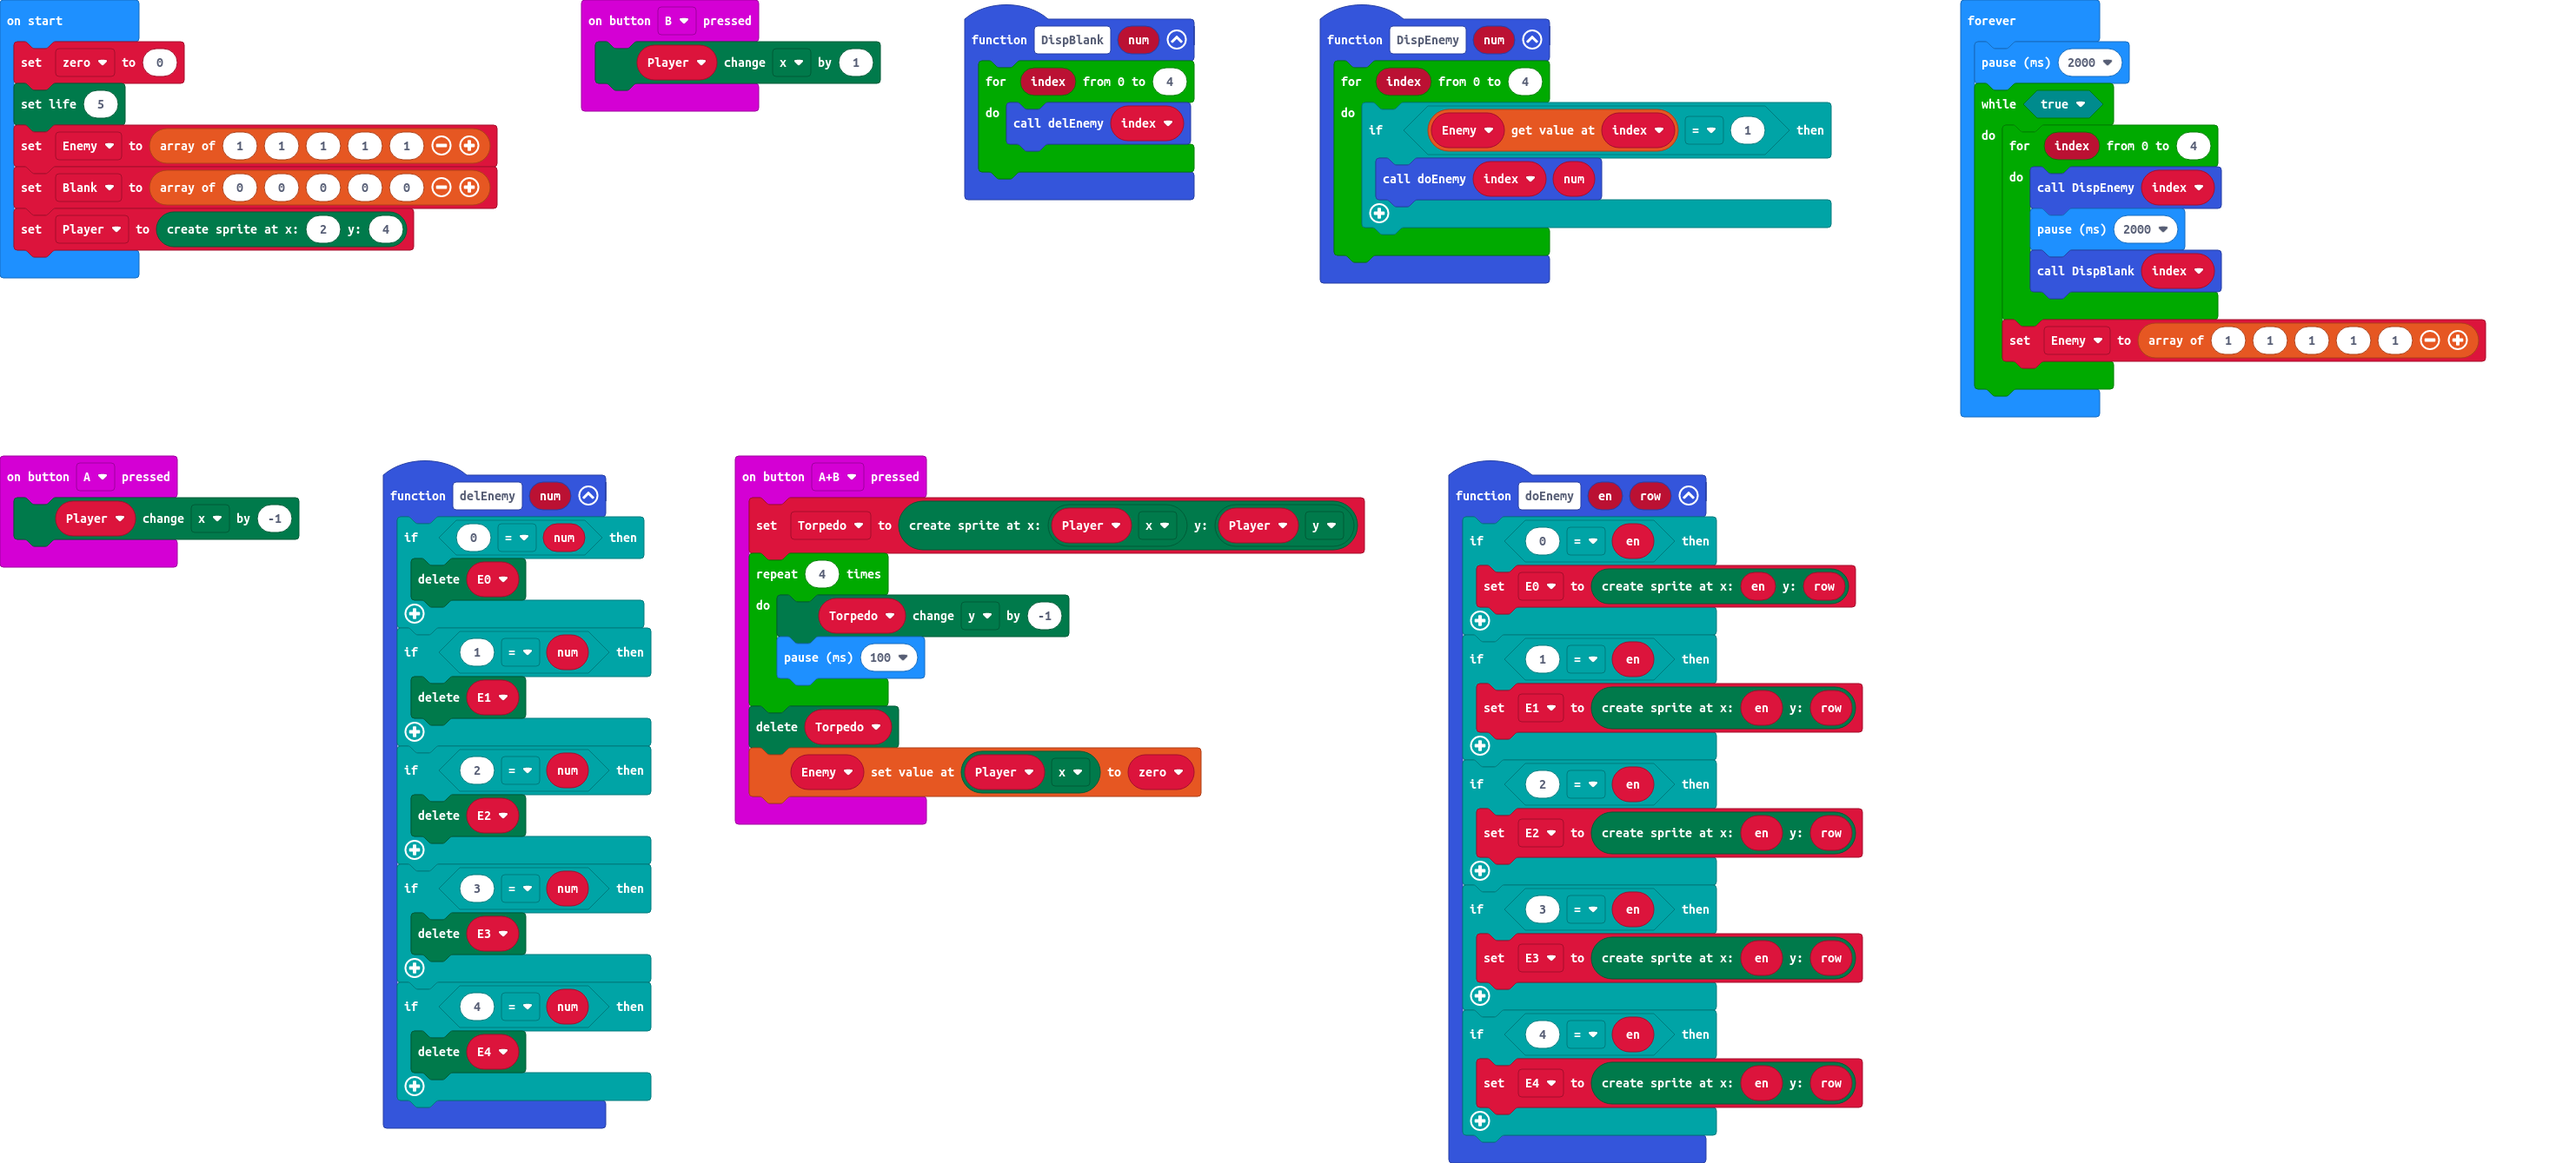
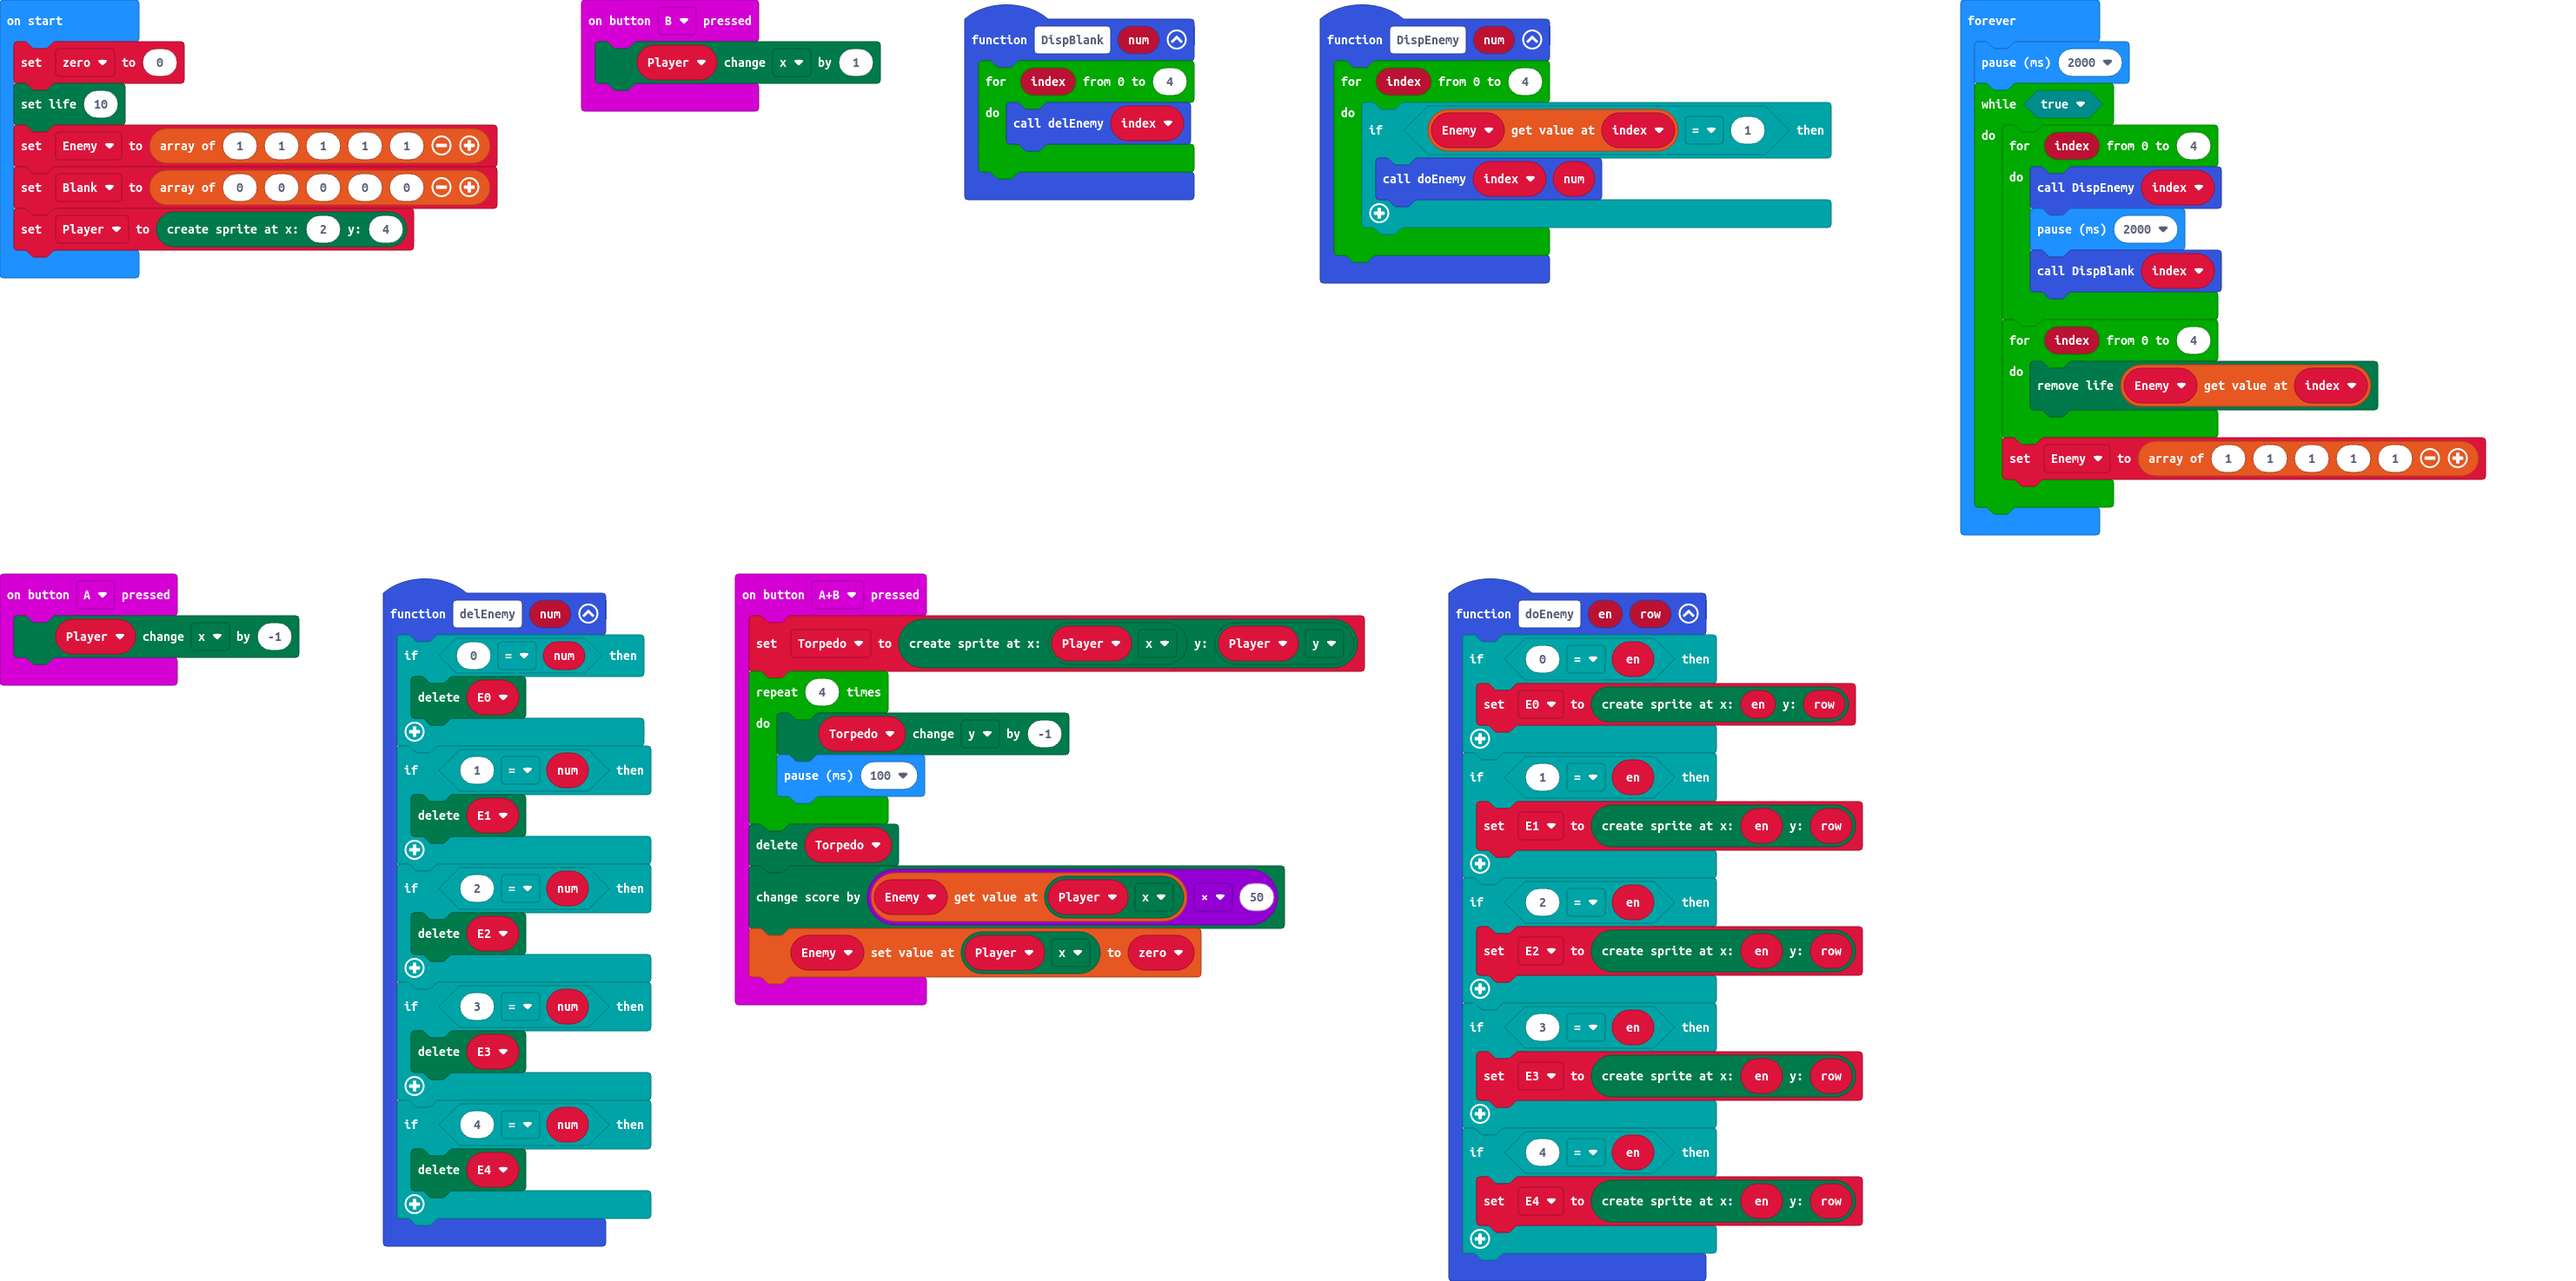
Update main.blocks, main.ts

diff --git a/main.ts b/main.ts
@@ -30,6 +30,7 @@ input.onButtonPressed(Button.AB, function () {
         basic.pause(100)
     }
     Torpedo.delete()
+    game.addScore(Enemy[Player.get(LedSpriteProperty.X)] * 50)
     Enemy[Player.get(LedSpriteProperty.X)] = zero
 })
 input.onButtonPressed(Button.B, function () {
@@ -69,7 +70,7 @@ let Player: game.LedSprite = null
 let Enemy: number[] = []
 let zero = 0
 zero = 0
-game.setLife(5)
+game.setLife(10)
 Enemy = [1, 1, 1, 1, 1]
 let Blank = [0, 0, 0, 0, 0]
 Player = game.createSprite(2, 4)
@@ -80,6 +81,9 @@ basic.forever(function () {
             DispEnemy(index)
             basic.pause(2000)
             DispBlank(index)
+        }
+        for (let index = 0; index <= 4; index++) {
+            game.removeLife(Enemy[index])
         }
         Enemy = [1, 1, 1, 1, 1]
     }
